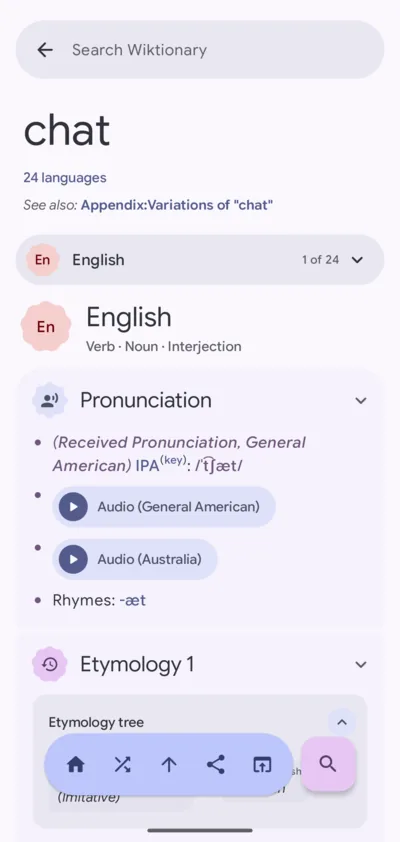
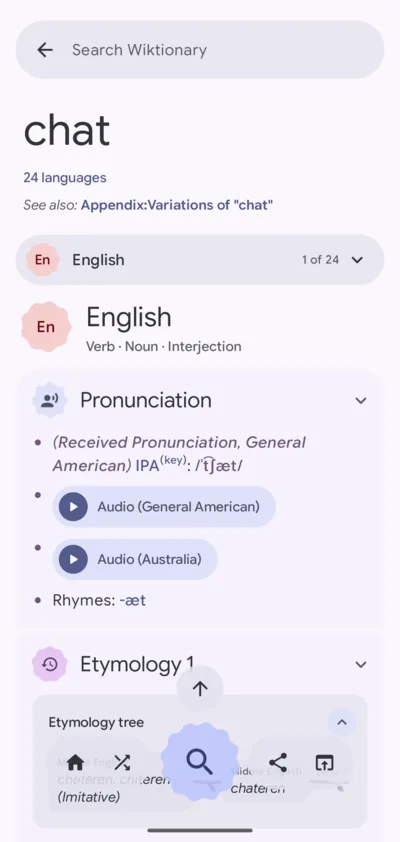
Retake README screenshots for the new search bar
Update the screenshots to show the centred search button and side buttons on entry
pages, and the Navigation section to describe them.

Changed region(s): [[0.09, 0.8029, 0.9, 0.9572]]

diff --git a/README.md b/README.md
@@ -57,10 +57,11 @@ Entries also include:
 
 ## Navigation
 
-- On the home screen, the search button opens a search field above the keyboard. Suggestions
-  appear as you type, and Enter opens the highlighted suggestion.
-- Entry pages have a toolbar with home, random word, back to top, share and open in browser.
-  It collapses while scrolling down and expands when scrolling up.
+- The search field opens above the keyboard. Suggestions appear as you type, and Enter opens the
+  highlighted suggestion.
+- The search button sits at the bottom of every screen and expands into the search field when tapped.
+  On entry pages it is flanked by home, random word, share and open in browser, with back to top
+  above it. These buttons hide while scrolling down and reappear when scrolling up.
 - Back navigation supports the predictive back gesture and restores the previous scroll position.
 - The app adds "Look up in Lexeme" to the text selection menu and opens en.wiktionary.org links.
 
